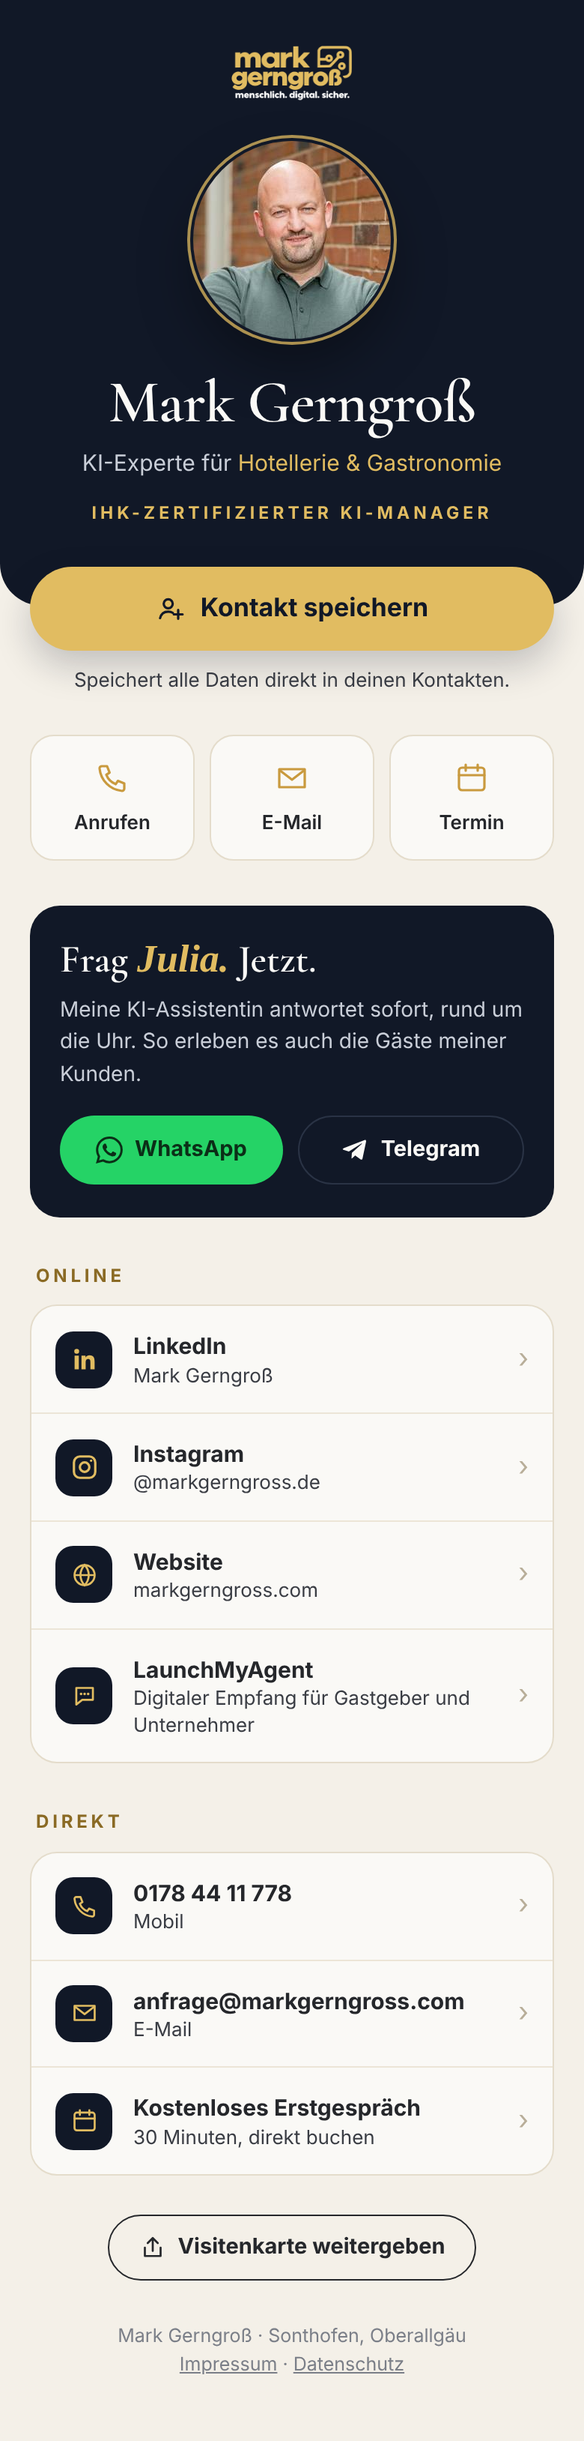
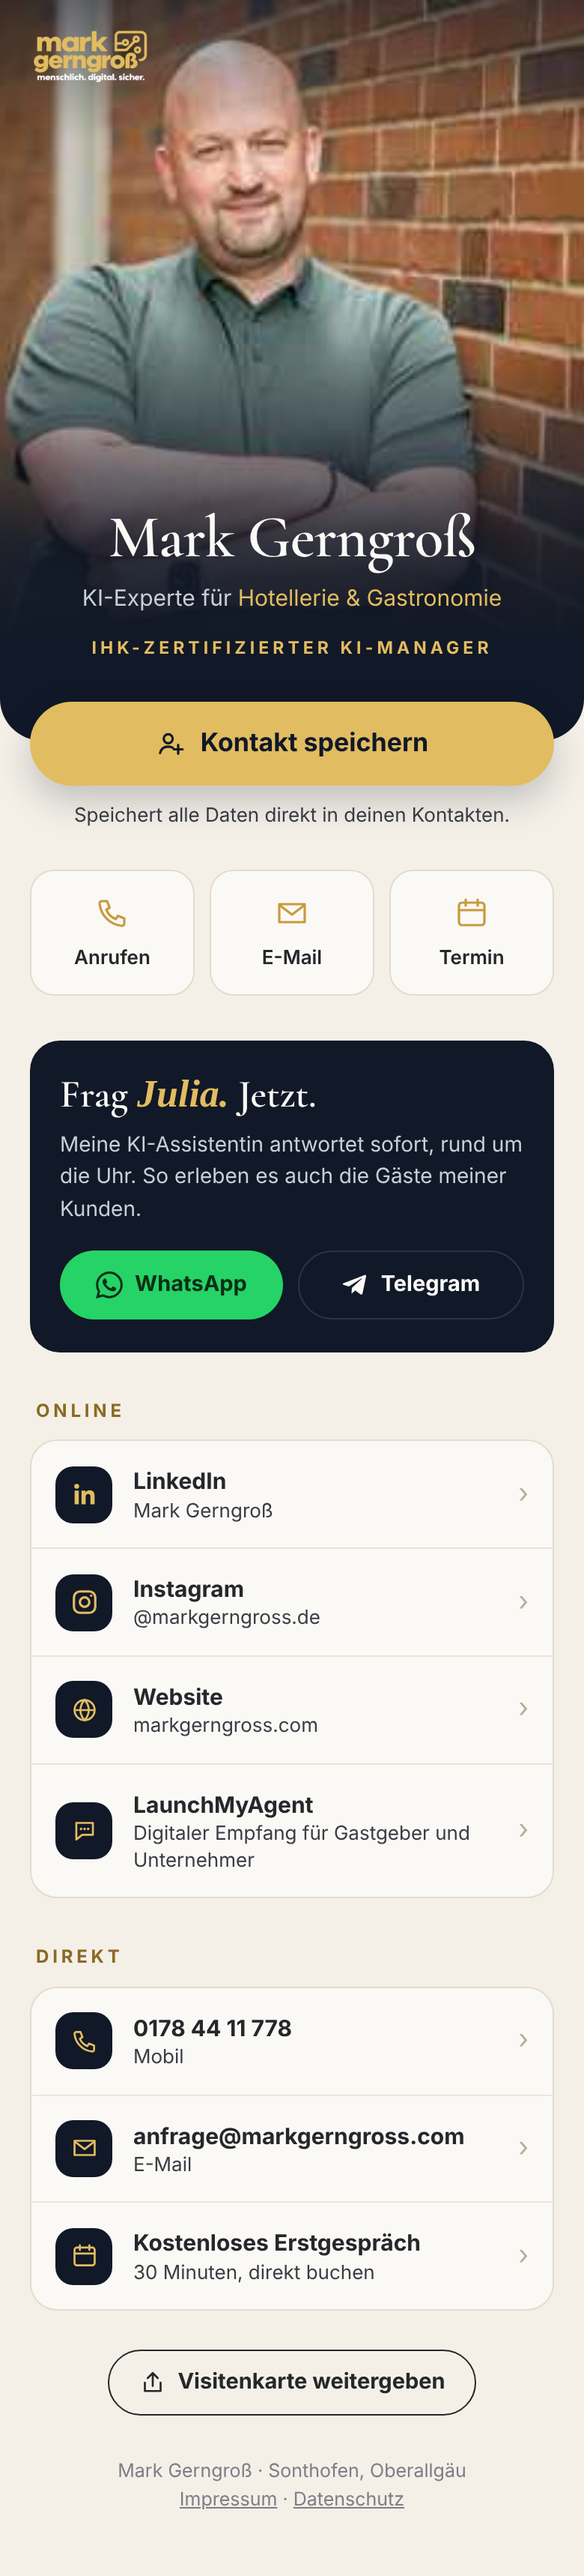
Visitenkarte: großes Foto an der Backsteinwand im Kopfbereich
Claude-Session: https://claude.ai/code/session_01R45M5Exwi4jmdcLthcgNcZ

diff --git a/visitenkarte/karte/index.html b/visitenkarte/karte/index.html
@@ -33,14 +33,14 @@ a{color:inherit;text-decoration:none}
 .page{max-width:480px;margin:0 auto;padding:0 0 40px}
 
 /* Kopf */
-.head{background:var(--navy);color:var(--card);padding:calc(28px + env(safe-area-inset-top)) 24px 52px;text-align:center;border-radius:0 0 28px 28px}
-.head__logo{height:40px;width:auto;margin:0 auto 26px;display:block}
-.photo{width:132px;height:132px;margin:0 auto;border-radius:50%;overflow:hidden;background:var(--navy-2);
-  box-shadow:0 0 0 2px var(--navy),0 0 0 4px rgba(225,188,97,.75),0 18px 36px rgba(0,0,0,.35);
-  display:flex;align-items:center;justify-content:center}
-.photo img{width:100%;height:100%;object-fit:cover;display:block}
-.photo span{font-family:var(--serif);font-size:52px;font-weight:600;color:var(--gold)}
-.name{margin:22px 0 0;font-family:var(--serif);font-weight:600;font-size:40px;line-height:1.02;letter-spacing:-.01em}
+.head{position:relative;background:var(--navy);color:var(--card);text-align:center;border-radius:0 0 28px 28px;overflow:hidden;padding-bottom:52px}
+.hero{position:relative;height:430px;background:var(--navy-2)}
+.hero picture,.hero img{display:block;width:100%;height:100%}
+.hero img{object-fit:cover;object-position:38% 18%}
+.hero::after{content:"";position:absolute;inset:0;background:linear-gradient(180deg,rgba(17,24,39,.55) 0%,rgba(17,24,39,0) 22%,rgba(17,24,39,0) 52%,rgba(17,24,39,.85) 84%,#111827 100%)}
+.head__logo{position:absolute;z-index:2;top:calc(18px + env(safe-area-inset-top));left:20px;height:38px;width:auto;display:block}
+.head__text{position:relative;z-index:2;margin-top:-92px;padding:0 24px}
+.name{margin:0;font-family:var(--serif);font-weight:600;font-size:40px;line-height:1.02;letter-spacing:-.01em}
 .role{margin:8px 0 0;font-size:15px;color:#C9CED8}
 .role em{font-style:normal;color:var(--gold)}
 .claim{margin:14px 0 0;font-size:11.5px;letter-spacing:.22em;text-transform:uppercase;font-weight:700;color:var(--gold)}
@@ -93,13 +93,17 @@ a{color:inherit;text-decoration:none}
 
   <header class="head">
     <img class="head__logo" src="https://markgerngross.com/assets/img/logo-footer.svg" alt="Mark Gerngroß – menschlich. digital. sicher." onerror="this.remove()">
-    <div class="photo">
-      <img src="https://markgerngross.com/assets/img/neu/mark-rund.jpg" alt="Mark Gerngroß" width="132" height="132"
-           onerror="if(!this.dataset.f){this.dataset.f=1;this.src='https://markgerngross.com/assets/img/neu/mark-mauer.jpg';this.style.objectPosition='62% 30%';}else{this.parentNode.innerHTML='<span>MG</span>';}">
+    <div class="hero">
+      <picture>
+        <source srcset="https://markgerngross.com/assets/img/neu/mark-mauer.webp" type="image/webp">
+        <img src="https://markgerngross.com/assets/img/neu/mark-mauer.jpg" alt="Mark Gerngroß lehnt mit verschränkten Armen an einer Backsteinwand" width="1600" height="1067">
+      </picture>
     </div>
-    <h1 class="name">Mark Gerngroß</h1>
-    <p class="role">KI-Experte für <em>Hotellerie &amp; Gastronomie</em></p>
-    <p class="claim">IHK-zertifizierter KI-Manager</p>
+    <div class="head__text">
+      <h1 class="name">Mark Gerngroß</h1>
+      <p class="role">KI-Experte für <em>Hotellerie &amp; Gastronomie</em></p>
+      <p class="claim">IHK-zertifizierter KI-Manager</p>
+    </div>
   </header>
 
   <a class="save" href="vcard.php">
